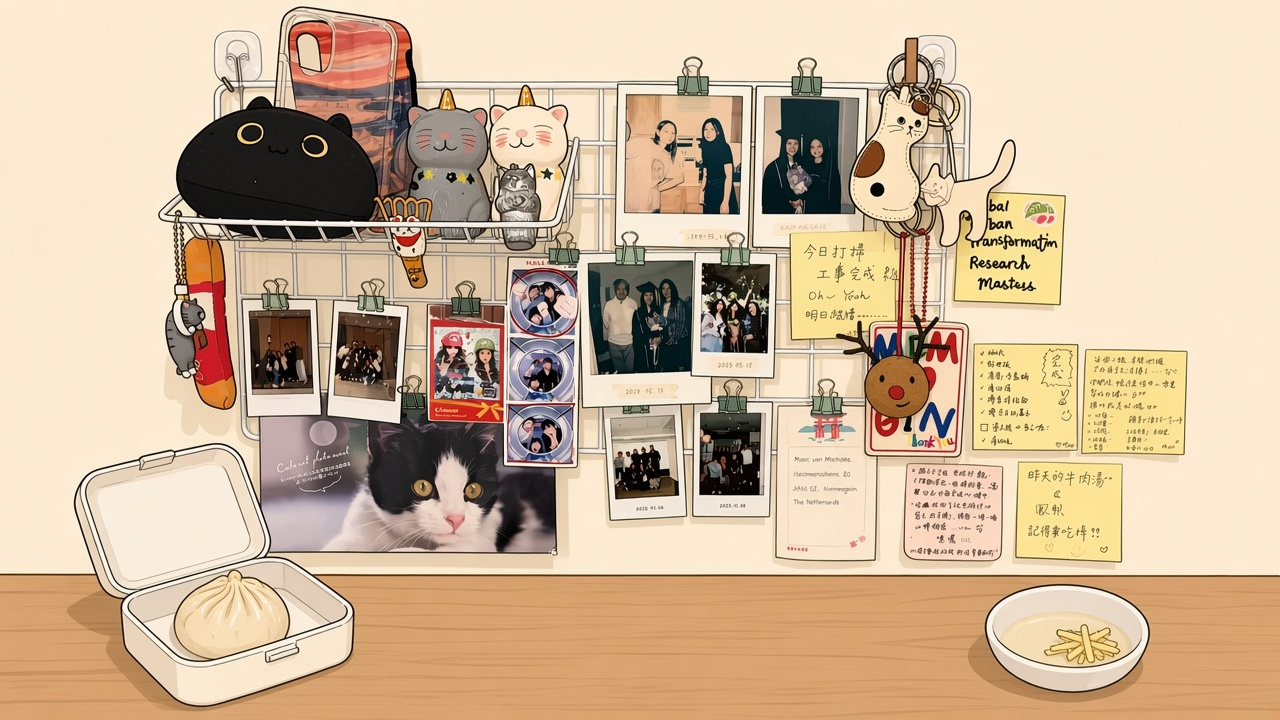
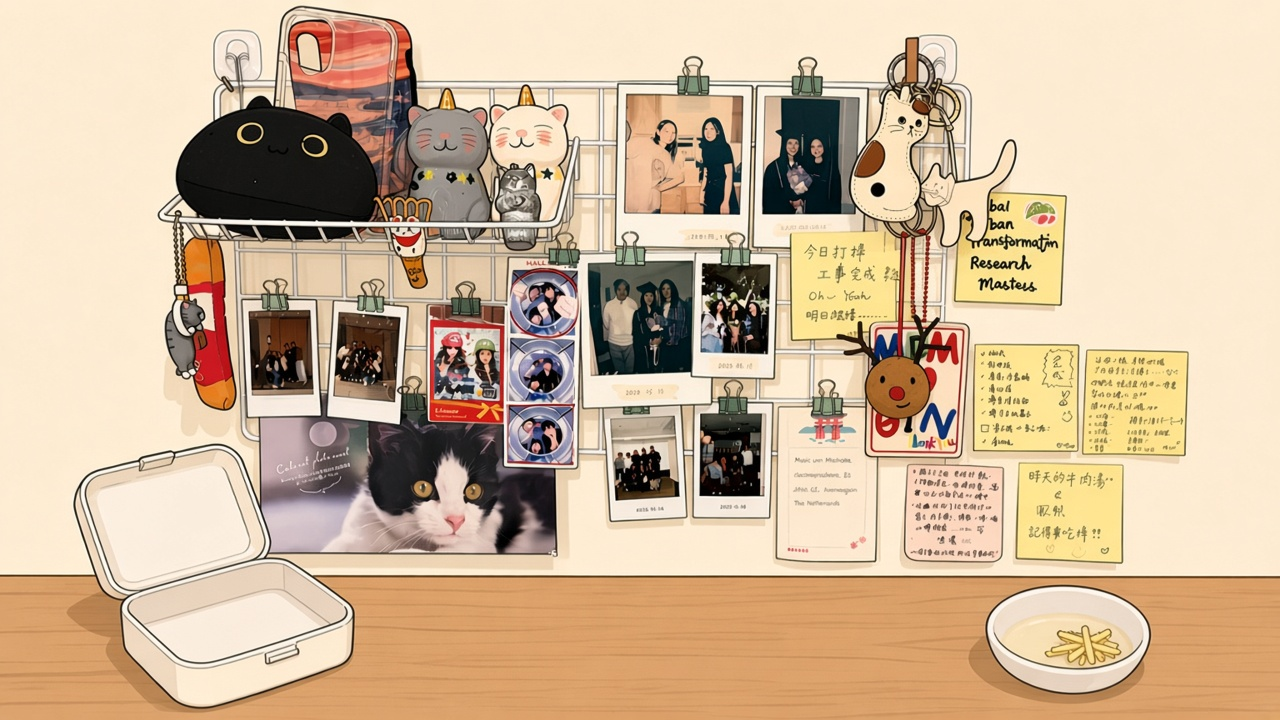
Add a draggable dumpling on the Careful scene.
Place a transparent xiao-long-bao in the lunch box so the first minigame can be dragged around the desk.

diff --git a/src/hangman/CarefulGame.tsx b/src/hangman/CarefulGame.tsx
@@ -1,0 +1,130 @@
+import { useEffect, useRef, useState } from 'react'
+
+/** Center of the bottom lunch-box well, as percent of the background image. */
+const START = { x: 18.7, y: 84.2 }
+const XLB_WIDTH = 6.4
+
+type Props = {
+  title: string
+  body: string
+  background: string
+}
+
+type Box = { left: number; top: number; width: number; height: number }
+
+function coverRect(container: DOMRect, natW: number, natH: number): Box {
+  const scale = Math.max(container.width / natW, container.height / natH)
+  const width = natW * scale
+  const height = natH * scale
+  return {
+    left: container.left + (container.width - width) / 2,
+    top: container.top + (container.height - height) / 2,
+    width,
+    height,
+  }
+}
+
+export default function CarefulGame({ title, body, background }: Props) {
+  const fieldRef = useRef<HTMLElement>(null)
+  const bgRef = useRef<HTMLImageElement>(null)
+  const [pos, setPos] = useState(START)
+  const [layout, setLayout] = useState<Box | null>(null)
+  const drag = useRef<{ dx: number; dy: number } | null>(null)
+
+  function measure() {
+    const field = fieldRef.current
+    const img = bgRef.current
+    if (!field || !img?.naturalWidth) return
+    const fr = field.getBoundingClientRect()
+    const box = coverRect(fr, img.naturalWidth, img.naturalHeight)
+    setLayout({
+      left: box.left - fr.left,
+      top: box.top - fr.top,
+      width: box.width,
+      height: box.height,
+    })
+  }
+
+  useEffect(() => {
+    measure()
+    const node = fieldRef.current
+    const ro = new ResizeObserver(measure)
+    if (node) ro.observe(node)
+    window.addEventListener('resize', measure)
+    return () => {
+      ro.disconnect()
+      window.removeEventListener('resize', measure)
+    }
+  }, [])
+
+  function toPct(clientX: number, clientY: number) {
+    const field = fieldRef.current
+    const img = bgRef.current
+    if (!field || !img?.naturalWidth) return START
+    const box = coverRect(field.getBoundingClientRect(), img.naturalWidth, img.naturalHeight)
+    return {
+      x: ((clientX - box.left) / box.width) * 100,
+      y: ((clientY - box.top) / box.height) * 100,
+    }
+  }
+
+  function onPointerDown(event: React.PointerEvent<HTMLButtonElement>) {
+    event.preventDefault()
+    event.currentTarget.setPointerCapture(event.pointerId)
+    const p = toPct(event.clientX, event.clientY)
+    drag.current = { dx: p.x - pos.x, dy: p.y - pos.y }
+  }
+
+  function onPointerMove(event: React.PointerEvent<HTMLButtonElement>) {
+    if (!drag.current) return
+    const p = toPct(event.clientX, event.clientY)
+    setPos({
+      x: Math.min(97, Math.max(3, p.x - drag.current.dx)),
+      y: Math.min(97, Math.max(3, p.y - drag.current.dy)),
+    })
+  }
+
+  function onPointerUp(event: React.PointerEvent<HTMLButtonElement>) {
+    drag.current = null
+    if (event.currentTarget.hasPointerCapture(event.pointerId)) {
+      event.currentTarget.releasePointerCapture(event.pointerId)
+    }
+  }
+
+  return (
+    <article className="subpage subpage--scene careful-game" ref={fieldRef}>
+      <img
+        ref={bgRef}
+        className="careful-bg"
+        src={background}
+        alt=""
+        draggable={false}
+        onLoad={measure}
+      />
+      <div className="subpage-copy">
+        <h1>{title}</h1>
+        <p className="lede">{body}</p>
+      </div>
+      <button
+        type="button"
+        className="xlb"
+        aria-label="Xiao long bao"
+        style={
+          layout
+            ? {
+                left: layout.left + (pos.x / 100) * layout.width,
+                top: layout.top + (pos.y / 100) * layout.height,
+                width: (XLB_WIDTH / 100) * layout.width,
+              }
+            : { left: `${START.x}%`, top: `${START.y}%` }
+        }
+        onPointerDown={onPointerDown}
+        onPointerMove={onPointerMove}
+        onPointerUp={onPointerUp}
+        onPointerCancel={onPointerUp}
+      >
+        <img src="/sprites/xlb.png" alt="" draggable={false} />
+      </button>
+    </article>
+  )
+}

diff --git a/src/index.css b/src/index.css
@@ -424,6 +424,52 @@ h2 {
   font-weight: 600;
 }
 
+.careful-game {
+  position: relative;
+  overflow: hidden;
+}
+
+.careful-bg {
+  position: absolute;
+  inset: 0;
+  width: 100%;
+  height: 100%;
+  object-fit: cover;
+  object-position: center;
+  pointer-events: none;
+  user-select: none;
+}
+
+.careful-game .subpage-copy {
+  position: relative;
+  z-index: 2;
+}
+
+.xlb {
+  position: absolute;
+  z-index: 3;
+  width: 6.4%;
+  height: auto;
+  padding: 0;
+  border: 0;
+  background: transparent;
+  transform: translate(-50%, -50%);
+  cursor: grab;
+  touch-action: none;
+}
+
+.xlb:active {
+  cursor: grabbing;
+}
+
+.xlb img {
+  width: 100%;
+  height: auto;
+  display: block;
+  pointer-events: none;
+  user-select: none;
+}
+
 .card-grid {
   display: grid;
   grid-template-columns: repeat(auto-fit, minmax(220px, 1fr));

diff --git a/src/hangman/LevelSubpage.tsx b/src/hangman/LevelSubpage.tsx
@@ -1,6 +1,7 @@
 import Gallery from '../pages/Gallery'
 import Games from '../pages/Games'
 import Scene from '../pages/Scene'
+import CarefulGame from './CarefulGame'
 import { titleCaseWord, type Level } from './levels'
 
 type Props = {
@@ -8,6 +9,15 @@ type Props = {
 }
 
 export default function LevelSubpage({ level }: Props) {
+  if (level.id === '1' && level.background) {
+    return (
+      <CarefulGame
+        title={level.note?.title ?? titleCaseWord(level.word)}
+        body={level.note?.body ?? ''}
+        background={level.background}
+      />
+    )
+  }
   if (level.page === 'gallery') return <Gallery />
   if (level.page === 'spline') return <Scene />
   if (level.page === 'games') return <Games />
